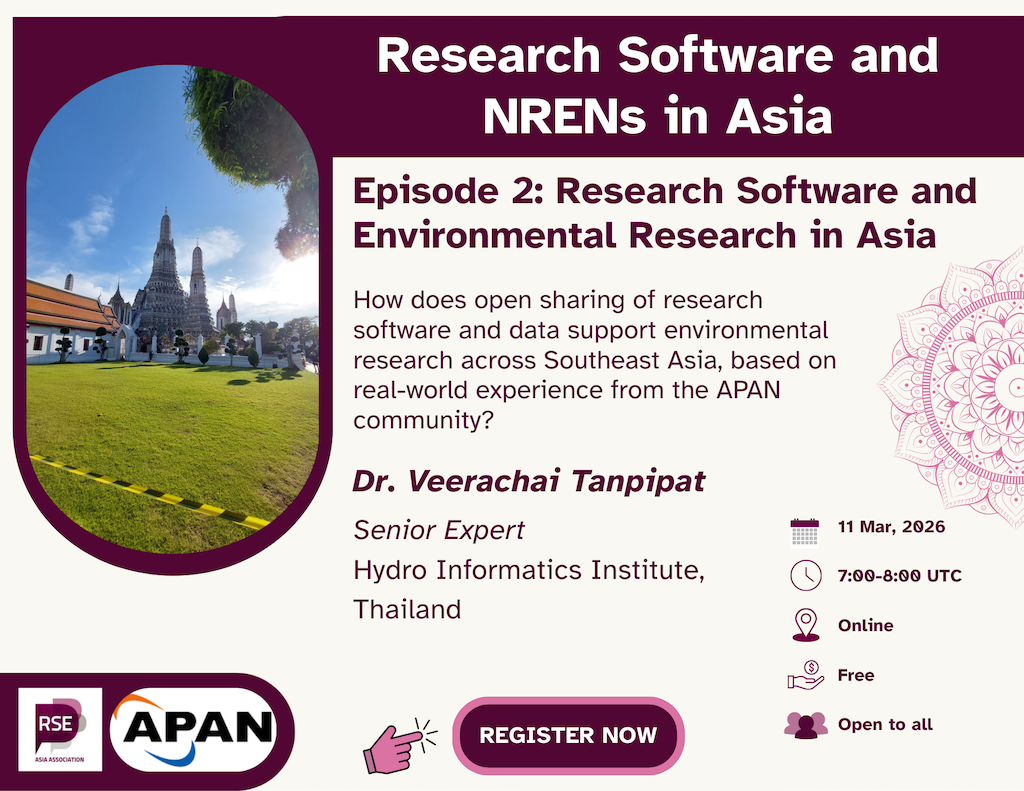
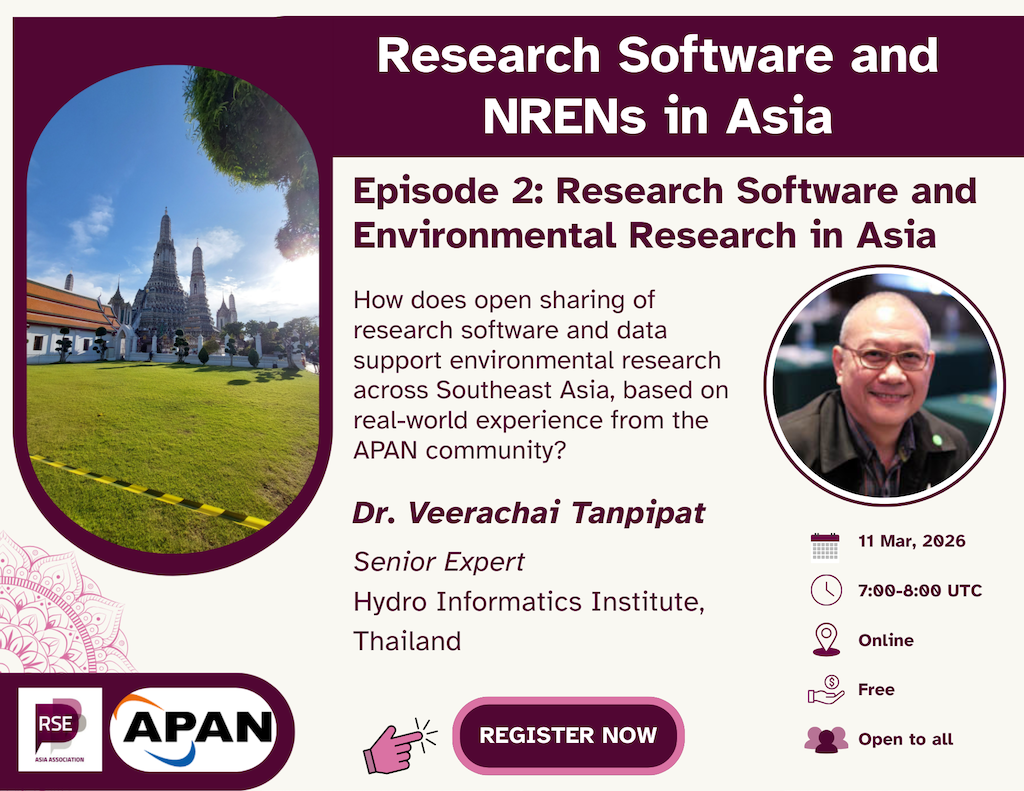
deploy: 4b9222012584502f8b6d54f3d7866941ea8353a5

Changed region(s): [[0.3438, 0.3338, 1.0, 0.9709], [0.0, 0.6675, 0.125, 0.8496]]

diff --git a/event/2026-3-10_ep-2-open_sharing/index.html b/event/2026-3-10_ep-2-open_sharing/index.html
@@ -1,7 +1,7 @@
 <!doctype html><html lang=en-uk><head><meta charset=utf-8><meta name=viewport content="width=device-width,initial-scale=1"><meta http-equiv=X-UA-Compatible content="IE=edge"><meta name=generator content="Hugo Blox Builder 5.9.7"><link rel=stylesheet href=/RSE_Asia/css/vendor-bundle.min.26c458e6907dc03073573976b7f4044e.css media=print onload='this.media="all"'><link rel=stylesheet href=https://cdn.jsdelivr.net/gh/jpswalsh/academicons@1.9.4/css/academicons.min.css integrity="sha512-IW0nhlW5MgNydsXJO40En2EoCkTTjZhI3yuODrZIc8cQ4h1XcF53PsqDHa09NqnkXuIe0Oiyyj171BqZFwISBw==" crossorigin=anonymous media=print onload='this.media="all"'><link rel=stylesheet href=https://cdn.jsdelivr.net/npm/leaflet@1.7.1/dist/leaflet.min.css integrity crossorigin=anonymous media=print onload='this.media="all"'><link rel=stylesheet href=/RSE_Asia/css/wowchemy.33dfdb4b951ccd8dbec927347d660901.css><link rel=stylesheet href=/RSE_Asia/css/libs/chroma/github-light.min.css title=hl-light media=print onload='this.media="all"'><link rel=stylesheet href=/RSE_Asia/css/libs/chroma/dracula.min.css title=hl-dark media=print onload='this.media="all"' disabled><meta name=author content="Saranjeet Kaur Bhogal"><meta name=description content="(Episode 2) Research Software and NRENs in Asia"><link rel=alternate hreflang=en-uk href=https://rse-asia.github.io/RSE_Asia/event/2026-3-10_ep-2-open_sharing/><link rel=canonical href=https://rse-asia.github.io/RSE_Asia/event/2026-3-10_ep-2-open_sharing/><link rel=manifest href=/RSE_Asia/manifest.webmanifest><link rel=icon type=image/png href=/RSE_Asia/media/icon_hu2190652719318244050.png><link rel=apple-touch-icon type=image/png href=/RSE_Asia/media/icon_hu6748282628746922101.png><meta name=theme-color content="#1565c0"><meta property="twitter:card" content="summary_large_image"><meta property="twitter:site" content="@GetResearchDev"><meta property="twitter:creator" content="@GetResearchDev"><meta property="twitter:image" content="https://rse-asia.github.io/RSE_Asia/event/2026-3-10_ep-2-open_sharing/rs_nren_series_banner_episode_2.png"><meta property="og:type" content="website"><meta property="og:site_name" content="RSE Asia Association"><meta property="og:url" content="https://rse-asia.github.io/RSE_Asia/event/2026-3-10_ep-2-open_sharing/"><meta property="og:title" content="Episode 2: Research Software and Environmental Research in Asia | RSE Asia Association"><meta property="og:description" content="(Episode 2) Research Software and NRENs in Asia"><meta property="og:image" content="https://rse-asia.github.io/RSE_Asia/event/2026-3-10_ep-2-open_sharing/rs_nren_series_banner_episode_2.png"><meta property="og:locale" content="en-uk"><meta property="og:updated_time" content="2026-03-11T07:00:00+00:00"><link rel=alternate href=/RSE_Asia/event/2026-3-10_ep-2-open_sharing/index.xml type=application/rss+xml title="RSE Asia Association"><title>Episode 2: Research Software and Environmental Research in Asia | RSE Asia Association</title></head><body id=top data-spy=scroll data-offset=70 data-target=#TableOfContents class=page-wrapper data-wc-page-id=8cee2ceadf8565ca103943f5af9d3c38><script src=/RSE_Asia/js/wowchemy-init.min.4fef3e534144e9903491f0cc6527eccd.js></script><aside class=search-modal id=search><div class=container><section class=search-header><div class="row no-gutters justify-content-between mb-3"><div class=col-6><h1>Search</h1></div><div class="col-6 col-search-close"><a class=js-search href=# aria-label=Close><i class="fas fa-times-circle text-muted" aria-hidden=true></i></a></div></div><div id=search-box><input name=q id=search-query placeholder=Search... autocapitalize=off autocomplete=off autocorrect=off spellcheck=false type=search class=form-control aria-label=Search...></div></section><section class=section-search-results><div id=search-hits></div></section></div></aside><div class="page-header header--fixed"><header><nav class="navbar navbar-expand-lg navbar-light compensate-for-scrollbar" id=navbar-main><div class=container-xl><div class="d-none d-lg-inline-flex"><a class=navbar-brand href=/RSE_Asia/>RSE Asia Association</a></div><button type=button class=navbar-toggler data-toggle=collapse data-target=#navbar-content aria-controls=navbar-content aria-expanded=false aria-label="Toggle navigation">
-<span><i class="fas fa-bars"></i></span></button><div class="navbar-brand-mobile-wrapper d-inline-flex d-lg-none"><a class=navbar-brand href=/RSE_Asia/>RSE Asia Association</a></div><div class="navbar-collapse main-menu-item collapse justify-content-end" id=navbar-content><ul class="navbar-nav d-md-inline-flex"><li class=nav-item><a class=nav-link href=/RSE_Asia/post><span>News</span></a></li><li class=nav-item><a class=nav-link href=/RSE_Asia/people><span>People</span></a></li><li class=nav-item><a class=nav-link href=/RSE_Asia/talk><span>Talks</span></a></li><li class=nav-item><a class=nav-link href=/RSE_Asia/blog><span>Blogs</span></a></li><li class=nav-item><a class=nav-link href=/RSE_Asia/membership><span>Get Involved</span></a></li><li class=nav-item><a class=nav-link href=/RSE_Asia/event><span>Events</span></a></li><li class=nav-item><a class=nav-link href=/RSE_Asia/publication><span>Publications</span></a></li><li class=nav-item><a class=nav-link href=/RSE_Asia/contact><span>Contact</span></a></li><li class=nav-item><a class=nav-link href=https://github.com/rse-asia/RSE_Asia target=_blank rel=noopener><span><i class='fab fa-github fa-2x'></i></span></a></li><li class=nav-item><a class=nav-link href=mailto:rse.asia.association@gmail.com><span><i class='fas fa-envelope fa-2x'></i></span></a></li><li class=nav-item><a class=nav-link href=https://www.linkedin.com/company/rse-asia-association/ target=_blank rel=noopener><span><i class='fab fa-linkedin fa-2x'></i></span></a></li></ul></div><ul class="nav-icons navbar-nav flex-row ml-auto d-flex pl-md-2"><li class=nav-item><a class="nav-link js-search" href=# aria-label=Search><i class="fas fa-search" aria-hidden=true></i></a></li></ul></div></nav></header></div><div class=page-body><div class="universal-wrapper pt-3"><h1>Episode 2: Research Software and Environmental Research in Asia</h1></div><div class=universal-wrapper><div class=row><div class=col-lg-12><div class=article-style><p><figure><div class="d-flex justify-content-center"><div class=w-100><img alt="Open Data Sharing and Research Software" srcset="/RSE_Asia/event/2026-3-10_ep-2-open_sharing/rs_nren_series_banner_episode_2_hu11154565761136473250.webp 400w,
-/RSE_Asia/event/2026-3-10_ep-2-open_sharing/rs_nren_series_banner_episode_2_hu8912838367836046576.webp 760w,
-/RSE_Asia/event/2026-3-10_ep-2-open_sharing/rs_nren_series_banner_episode_2_hu10749625502344878072.webp 1200w" src=/RSE_Asia/event/2026-3-10_ep-2-open_sharing/rs_nren_series_banner_episode_2_hu11154565761136473250.webp width=760 height=587 loading=lazy data-zoomable></div></div></figure></p><p>In the second episode of the series &lsquo;Research Software and NRENs in Asia&rsquo;, we
+<span><i class="fas fa-bars"></i></span></button><div class="navbar-brand-mobile-wrapper d-inline-flex d-lg-none"><a class=navbar-brand href=/RSE_Asia/>RSE Asia Association</a></div><div class="navbar-collapse main-menu-item collapse justify-content-end" id=navbar-content><ul class="navbar-nav d-md-inline-flex"><li class=nav-item><a class=nav-link href=/RSE_Asia/post><span>News</span></a></li><li class=nav-item><a class=nav-link href=/RSE_Asia/people><span>People</span></a></li><li class=nav-item><a class=nav-link href=/RSE_Asia/talk><span>Talks</span></a></li><li class=nav-item><a class=nav-link href=/RSE_Asia/blog><span>Blogs</span></a></li><li class=nav-item><a class=nav-link href=/RSE_Asia/membership><span>Get Involved</span></a></li><li class=nav-item><a class=nav-link href=/RSE_Asia/event><span>Events</span></a></li><li class=nav-item><a class=nav-link href=/RSE_Asia/publication><span>Publications</span></a></li><li class=nav-item><a class=nav-link href=/RSE_Asia/contact><span>Contact</span></a></li><li class=nav-item><a class=nav-link href=https://github.com/rse-asia/RSE_Asia target=_blank rel=noopener><span><i class='fab fa-github fa-2x'></i></span></a></li><li class=nav-item><a class=nav-link href=mailto:rse.asia.association@gmail.com><span><i class='fas fa-envelope fa-2x'></i></span></a></li><li class=nav-item><a class=nav-link href=https://www.linkedin.com/company/rse-asia-association/ target=_blank rel=noopener><span><i class='fab fa-linkedin fa-2x'></i></span></a></li></ul></div><ul class="nav-icons navbar-nav flex-row ml-auto d-flex pl-md-2"><li class=nav-item><a class="nav-link js-search" href=# aria-label=Search><i class="fas fa-search" aria-hidden=true></i></a></li></ul></div></nav></header></div><div class=page-body><div class="universal-wrapper pt-3"><h1>Episode 2: Research Software and Environmental Research in Asia</h1></div><div class=universal-wrapper><div class=row><div class=col-lg-12><div class=article-style><p><figure><div class="d-flex justify-content-center"><div class=w-100><img alt="Open Data Sharing and Research Software" srcset="/RSE_Asia/event/2026-3-10_ep-2-open_sharing/rs_nren_series_banner_episode_2_hu5982548089822679549.webp 400w,
+/RSE_Asia/event/2026-3-10_ep-2-open_sharing/rs_nren_series_banner_episode_2_hu972386631344627061.webp 760w,
+/RSE_Asia/event/2026-3-10_ep-2-open_sharing/rs_nren_series_banner_episode_2_hu2848133154433622471.webp 1200w" src=/RSE_Asia/event/2026-3-10_ep-2-open_sharing/rs_nren_series_banner_episode_2_hu5982548089822679549.webp width=760 height=587 loading=lazy data-zoomable></div></div></figure></p><p>In the second episode of the series &lsquo;Research Software and NRENs in Asia&rsquo;, we
 will explore the role of research software in environmental research, with a
 focus on open science and open sharing. We will discuss about how research
 software can be used to address environmental challenges in Southeast Asia.

diff --git a/event/index.html b/event/index.html
@@ -5,7 +5,7 @@
 </span><span class=middot-divider></span>
 <span>Online</span></div></div></div><div class=ml-3><a href=/RSE_Asia/event/2026-04-14_datacite_webinar/><img src=/RSE_Asia/event/2026-04-14_datacite_webinar/rse_asia_webinar_datacite_banner_hu15050844907837754510.webp height=116 width=150 alt="Connecting Research Software to the Scholarly Record with DataCite" loading=lazy></a></div></div><div class="media stream-item view-compact"><div class=media-body><div class="section-subheading article-title mb-0 mt-0"><a href=/RSE_Asia/event/2026-3-10_ep-2-open_sharing/>Episode 2: Research Software and Environmental Research in Asia</a></div><a href=/RSE_Asia/event/2026-3-10_ep-2-open_sharing/ class=summary-link><div class=article-style>(Episode 2) Research Software and NRENs in Asia</div></a><div class="stream-meta article-metadata"><div><span>Mar 11, 2026 7:00 AM &mdash; 8:00 AM
 </span><span class=middot-divider></span>
-<span>Online</span></div></div></div><div class=ml-3><a href=/RSE_Asia/event/2026-3-10_ep-2-open_sharing/><img src=/RSE_Asia/event/2026-3-10_ep-2-open_sharing/rs_nren_series_banner_episode_2_hu12338036011364769252.webp height=116 width=150 alt="Episode 2: Research Software and Environmental Research in Asia" loading=lazy></a></div></div><div class="media stream-item view-compact"><div class=media-body><div class="section-subheading article-title mb-0 mt-0"><a href=/RSE_Asia/event/2026-02-10_ep-1-apan_conversation/>Episode 1: Connecting NRENs and Research Software in Asia</a></div><a href=/RSE_Asia/event/2026-02-10_ep-1-apan_conversation/ class=summary-link><div class=article-style>(Episode 1) Research Software and NRENs in Asia</div></a><div class="stream-meta article-metadata"><div><span>Feb 11, 2026 7:00 AM &mdash; 8:00 AM
+<span>Online</span></div></div></div><div class=ml-3><a href=/RSE_Asia/event/2026-3-10_ep-2-open_sharing/><img src=/RSE_Asia/event/2026-3-10_ep-2-open_sharing/rs_nren_series_banner_episode_2_hu3058736542615144388.webp height=116 width=150 alt="Episode 2: Research Software and Environmental Research in Asia" loading=lazy></a></div></div><div class="media stream-item view-compact"><div class=media-body><div class="section-subheading article-title mb-0 mt-0"><a href=/RSE_Asia/event/2026-02-10_ep-1-apan_conversation/>Episode 1: Connecting NRENs and Research Software in Asia</a></div><a href=/RSE_Asia/event/2026-02-10_ep-1-apan_conversation/ class=summary-link><div class=article-style>(Episode 1) Research Software and NRENs in Asia</div></a><div class="stream-meta article-metadata"><div><span>Feb 11, 2026 7:00 AM &mdash; 8:00 AM
 </span><span class=middot-divider></span>
 <span>Online</span></div></div></div><div class=ml-3><a href=/RSE_Asia/event/2026-02-10_ep-1-apan_conversation/><img src=/RSE_Asia/event/2026-02-10_ep-1-apan_conversation/rs_nren_series_banner_episode_1_hu16509745717436161384.webp height=116 width=150 alt="Episode 1: Connecting NRENs and Research Software in Asia" loading=lazy></a></div></div></div></div><div class=row id=talk_list><div class=col-lg-2><h3>2025</h3></div><div class=col-lg-10><div class="media stream-item view-compact"><div class=media-body><div class="section-subheading article-title mb-0 mt-0"><a href=/RSE_Asia/event/2025-03-20-ep-6-rs-fund/>Episode 6: Funding for Research Software</a></div><a href=/RSE_Asia/event/2025-03-20-ep-6-rs-fund/ class=summary-link><div class=article-style>(Episode 6) Enabling Research Code through Open Science</div></a><div class="stream-meta article-metadata"><div><span>Mar 20, 2025 8:30 AM &mdash; 10:00 AM
 </span><span class=middot-divider></span>
